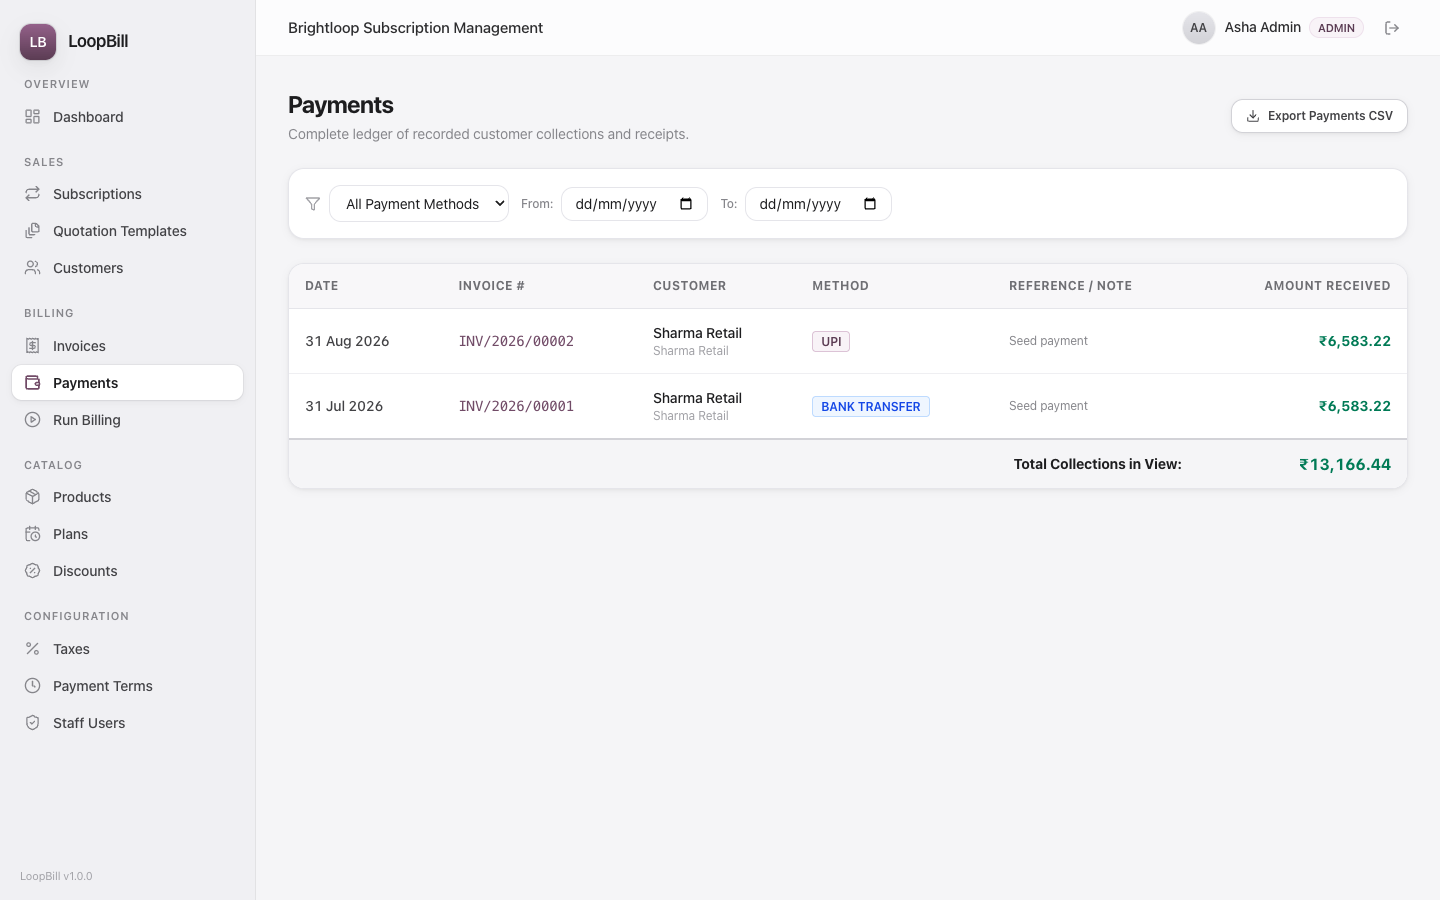
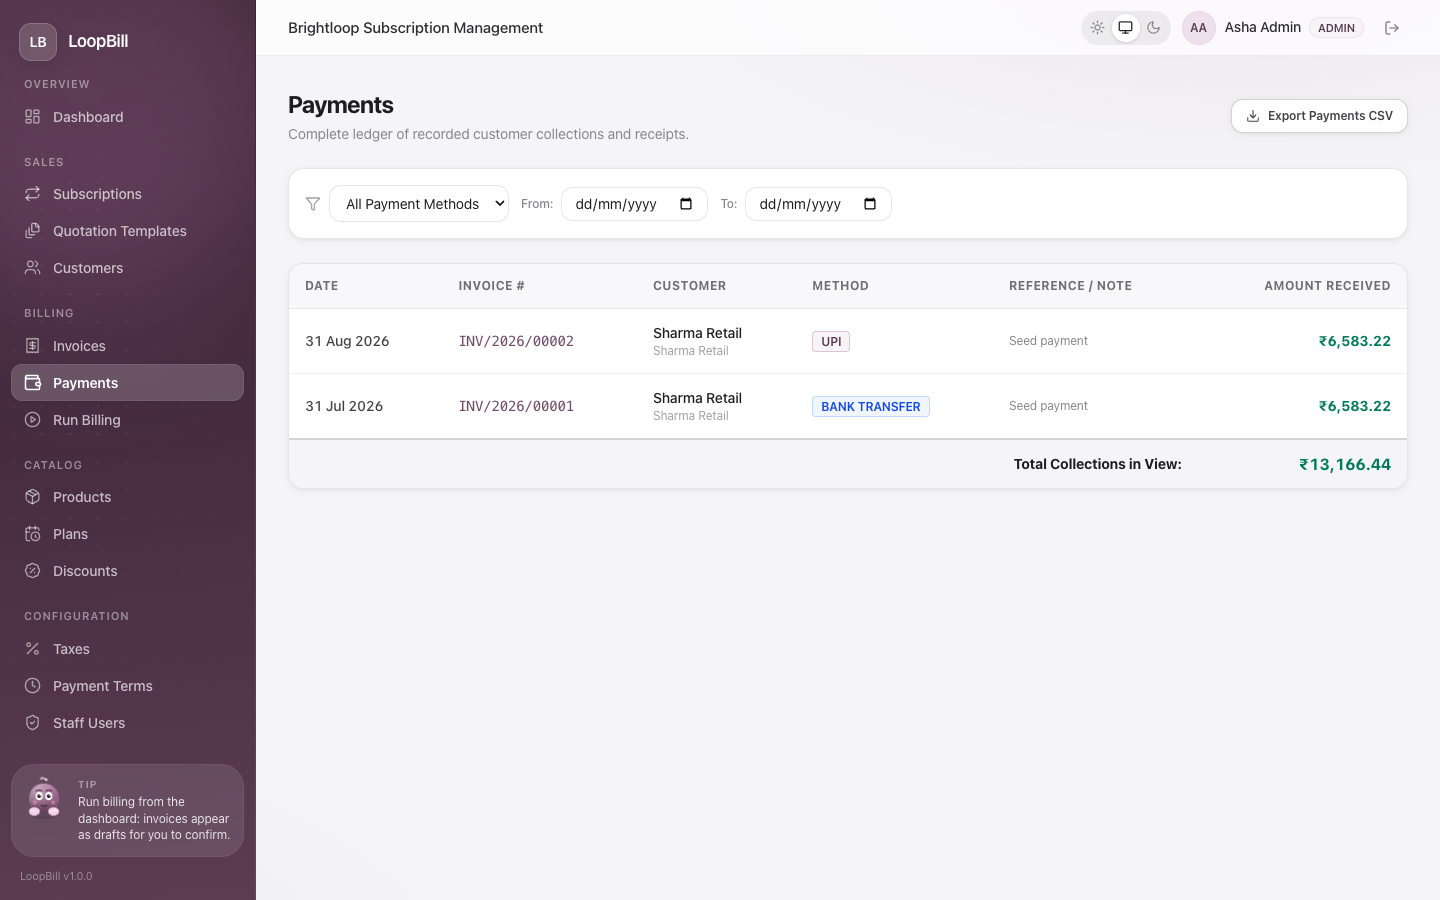
docs: add dark mode to the README and refresh screenshots for the new look

Changed region(s): [[0.0, 0.0, 0.1875, 1.0]]

diff --git a/README.md b/README.md
@@ -13,6 +13,7 @@ One system to run plans, subscriptions and recurring billing for Brightloop Soft
 - **Billing** — invoices are created from subscriptions (manually or by the nightly job) with customer details, lines, taxes and totals filled in. Nothing is billed twice or skipped, including missed days.
 - **Taxes and discounts** — admin-defined tax rules; fixed or percentage discounts with minimum purchase or quantity, date range and usage limit, applied automatically to products or whole subscriptions.
 - **Invoices and payments** — confirm, cancel, send and print invoices (Draft → Confirmed → Paid); record payments by method, amount, date and note; see paid, outstanding and overdue at any time.
+- **Look and feel** — light, dark or follow-the-system theme (saved per browser, no flash on load), an animated sign-in page with a reactive mascot, branded sidebar, and a hero banner with live figures on the dashboard and customer portal. Printable invoices always stay light.
 - **Reports** — active subscriptions, MRR/ARR, revenue collected, amount owed and overdue invoices, with filters.
 
 ## Screenshots
@@ -26,6 +27,13 @@ One system to run plans, subscriptions and recurring billing for Brightloop Soft
 | **Products and variants**<br>![Products](docs/screenshots/products.png) | **Plans**<br>![Plans](docs/screenshots/plans.png) |
 | **Quotation templates**<br>![Quotation templates](docs/screenshots/templates.png) | **Invoices** — draft, outstanding, overdue, paid<br>![Invoices](docs/screenshots/invoices.png) |
 | **Payments**<br>![Payments](docs/screenshots/payments.png) | **Run billing**<br>![Run billing](docs/screenshots/billing-run.png) |
+
+### Dark mode
+
+| | |
+|---|---|
+| **Dashboard**<br>![Dashboard in dark mode](docs/screenshots/dashboard-dark.png) | **Subscriptions**<br>![Subscriptions in dark mode](docs/screenshots/subscriptions-dark.png) |
+| **Customer portal**<br>![Portal in dark mode](docs/screenshots/portal-dark.png) | **Sign in**<br>![Sign in, dark mode](docs/screenshots/login-dark.png) |
 
 ### Customer portal
 
@@ -179,7 +187,7 @@ npm install
 npm run dev
 ```
 
-The app runs at `http://localhost:5173`.
+The app runs at `http://localhost:5173`. The sign-in page shows one-click demo-account buttons while developing; set `VITE_SHOW_DEMO_LOGINS=true` to show them in a production build.
 
 ## Demo accounts
 
